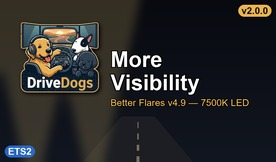
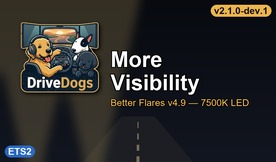
2.1.0-dev.1: test build for the longer low and high beam

Changed region(s): [[0.7536, 0.0, 0.9855, 0.1235]]

diff --git a/docs/tuning.md b/docs/tuning.md
@@ -15,10 +15,10 @@ v4.9's own values already exceed 1.0.0 in brightness, low-beam and roof reach an
 relative levers are dropped (user, 2026-10-28). Kept from 1.0.0: the width and high-beam reach (as absolutes) and
 the T5 lamp glow.
 
-| Round | Lever group | Fields | Stock v4.9.1 7500K | Lever | Released 2.0.0 | Check in-game |
+| Round | Lever group | Fields | Stock v4.9.1 7500K | Lever | Current (2.1.0-dev.1; 2.0.0 differs only in T2) | Check in-game |
 |---|---|---|---|---|---|---|
 | T1 | Intensity | `*_color*` | low `(4.15, 4.675, 6.2)` | identity | stock | |
-| T2 | Reach | `*_range` | low 140 / hi 240 / front 260 / roof, front_roof 400 | `range_set` 280 on hi, front | 140 / 280 / 280 / 400 | High beam and aux lamps carry farther |
+| T2 | Reach | `*_range` | low 140 / hi 240 / front 260 / roof, front_roof 400 | `range_set` 180 low, 350 hi, 280 front (2.0.0: hi 280, low stock) | 180 / 350 / 280 / 400 | Low and high beam carry farther |
 | | | `*_bias` | 0.0 | identity | 0.0 | |
 | **T3** | Width | `*_angle` | 90° (aspect 2.0 untouched) | `angle_set` 103 (all stages) | 103° | Shoulders and curves; vertical glare on signs/trees (aspect 2.29 would keep v4.9's vertical spread) |
 | T4 | Near-field | `*_refracted_*` | fraction 0.02, range 60 | identity | stock | |
@@ -32,6 +32,8 @@ Aim is one value for every truck in v4.9 (`low_beam_left_rot (-0.55, 0, 0)`), no
 | Build | Changed | Verdict |
 |---|---|---|
 | 2.0.0-dev.1 | Rebuilt on v4.9.1: angle 103, hi/front range 280, T5 glow; everything else stock | Clean log, user OK → released as 2.0.0 |
+| 3.0.0-dev.1 | Experiment: DBM Headlights Plus 1.4.1 truck defs above Headlights.1 (branch `feature/dbm-above-bf-experiment`) | Dropped: DBM's vanilla aim (-2.6°) and width (81°/75°) made the beam short and narrow |
+| 2.1.0-dev.1 | T2: low beam 180 (stock 140), high beam 350 (2.0.0: 280) | pending |
 
 ## Better Flares v4.8 (1.x, history)
 

diff --git a/README.md b/README.md
@@ -1,10 +1,10 @@
 # DriveDogs: Better Flares More Visibility (7500K LED)
 
 An ETS2 add-on for **Better Flares v4.9 - Headlights.2 7500K LED** (by Avelium). Truck headlights spread
-wider and the high beam reaches farther for more comfortable night driving, and the headlamp glow stays
+wider and the low and high beams reach farther for more comfortable night driving, and the headlamp glow stays
 readable in bad daytime conditions, while keeping Better Flares' realistic mood.
 
-**Status: `2.0.0`.** Better Flares v4.9 only; 7500K LED only; any Headlights.1 pattern. `1.0.0` was for
+**Status: `2.1.0-dev.1`** (low beam 180, high beam 350; released `2.0.0`: 140 / 280). Better Flares v4.9 only; 7500K LED only; any Headlights.1 pattern. `1.0.0` was for
 Better Flares v4.8 and breaks on v4.9 (removed beam masks).
 
 ## Load order
